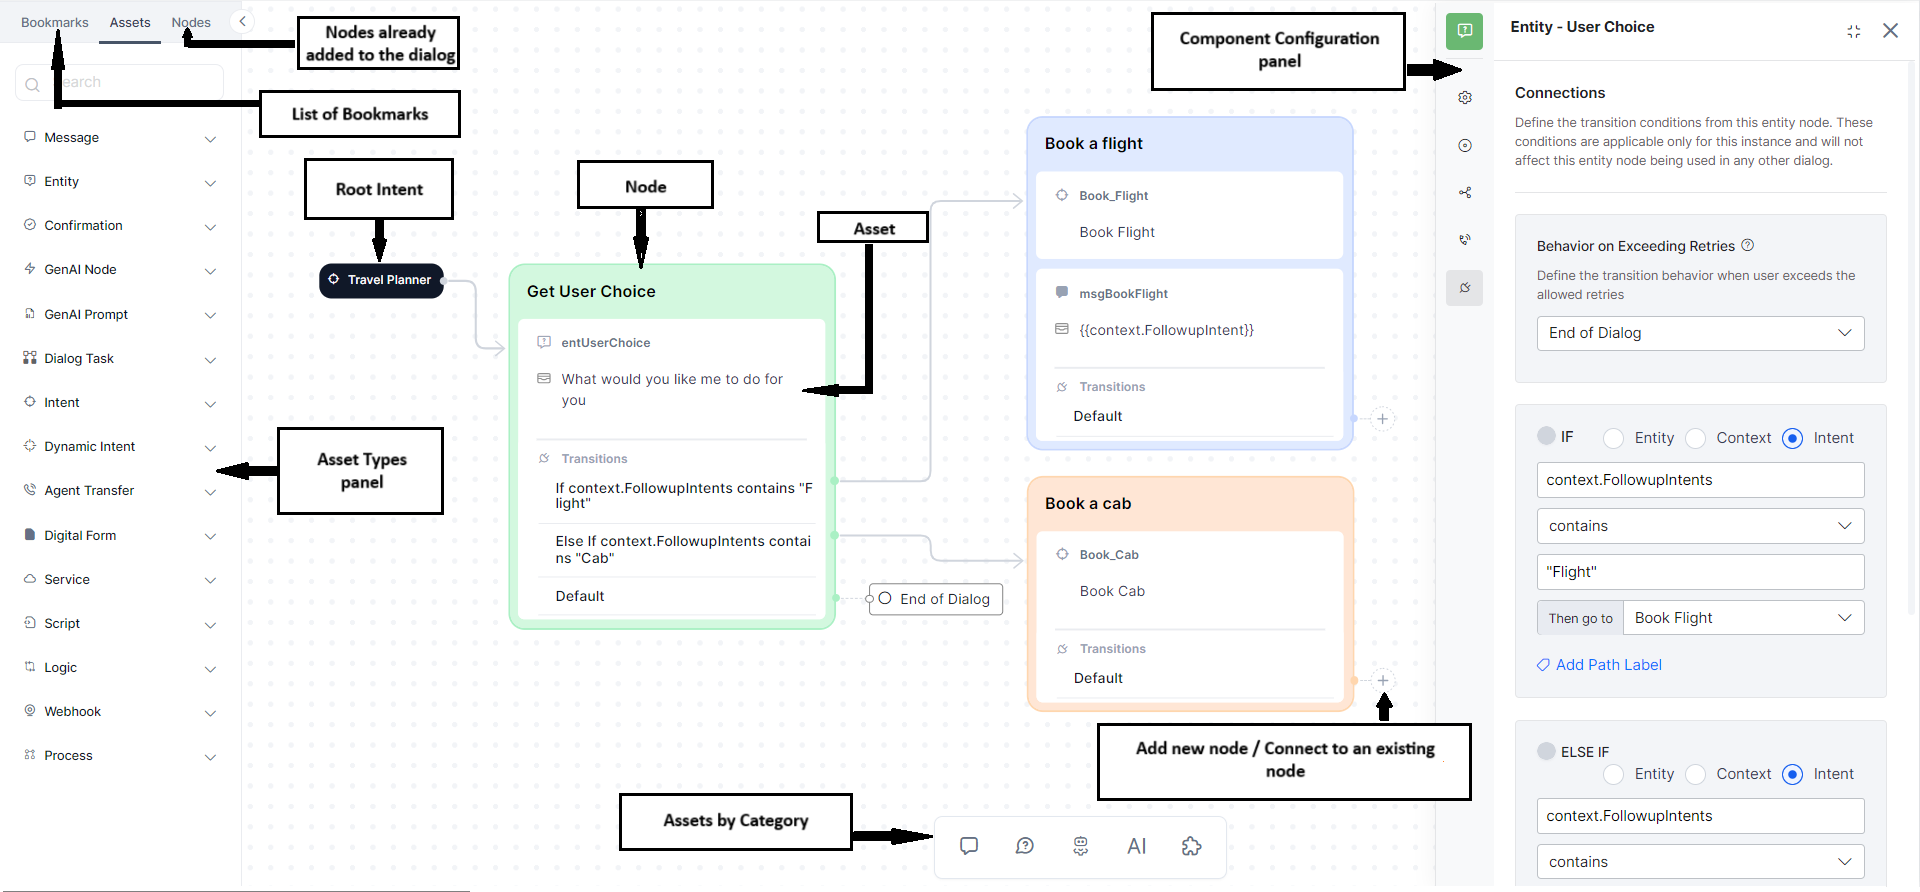
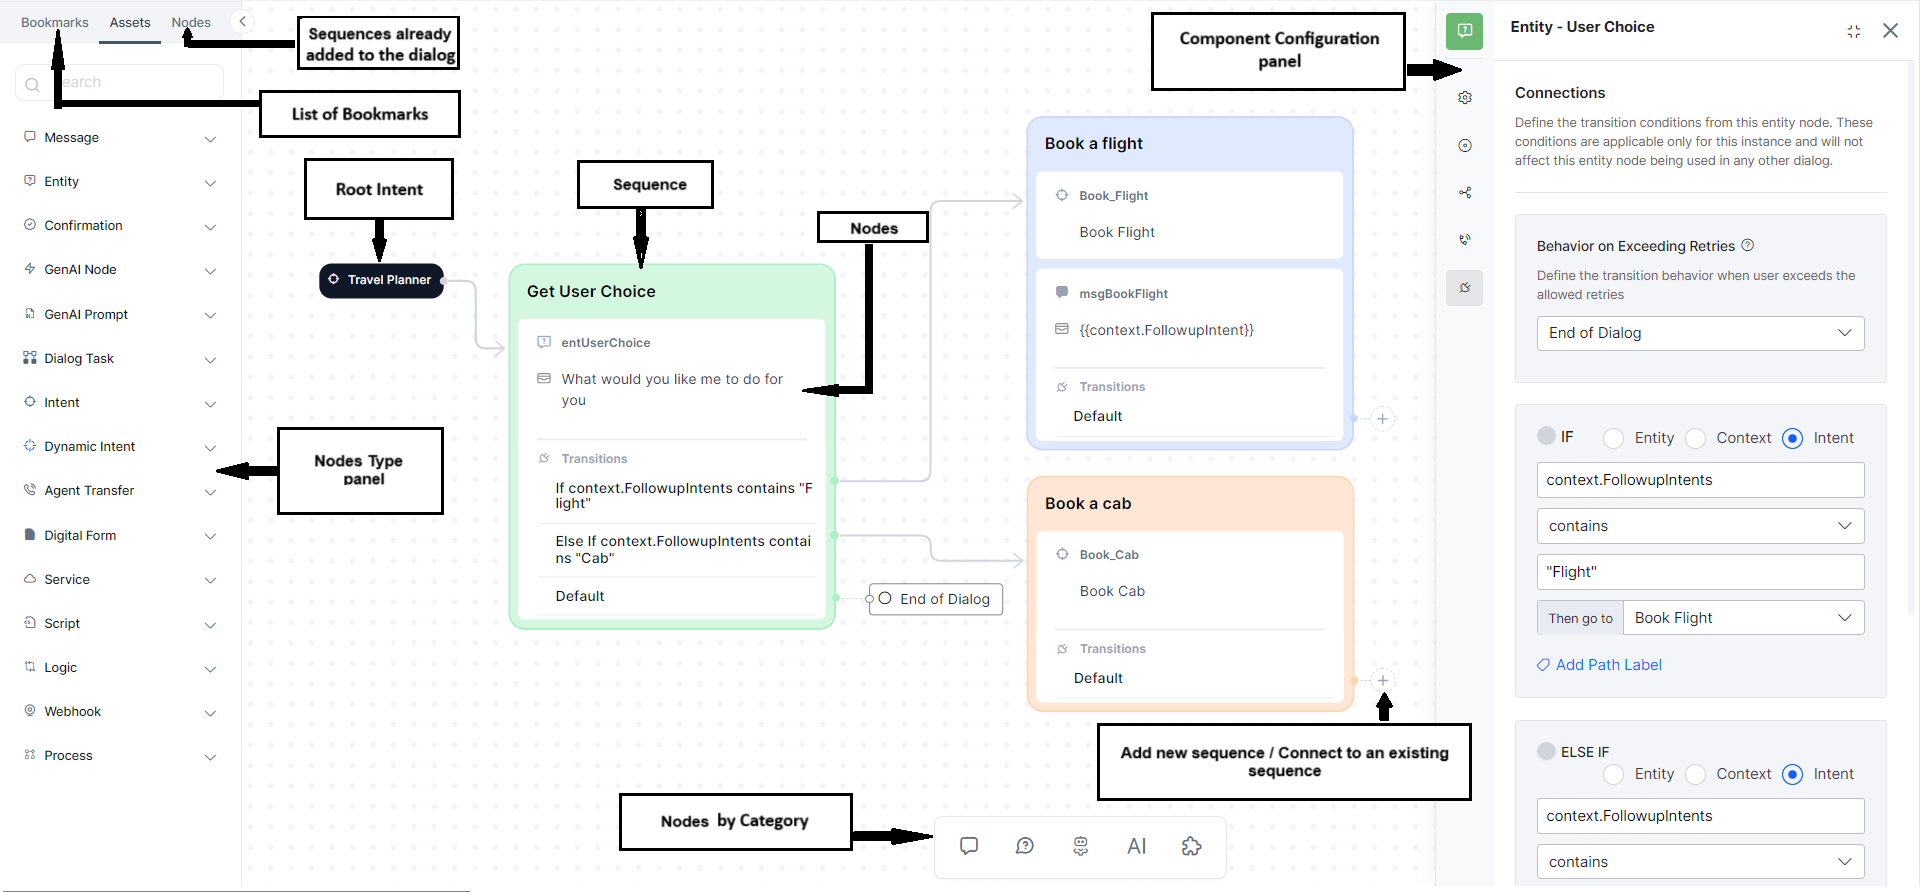
intent node

diff --git a/docs/xo/automation/use-cases/dialogs/node-types/working-with-the-user-intent-node.md b/docs/xo/automation/use-cases/dialogs/node-types/working-with-the-user-intent-node.md
@@ -16,7 +16,7 @@ User Intent Nodes help you add a root intent, a follow-up or sub-intents to your
 
 !!! Note
 
-        To start a new Dialog Task from an existing one, you can use the Dialog Task nodes.
+    To start a new Dialog Task from an existing one, you can use the Dialog Task nodes.
 
 Setting up a user intent node in a dialog task involves the following steps:
 
@@ -27,10 +27,7 @@ Setting up a user intent node in a dialog task involves the following steps:
 2. Add a user intent node in the designated place. For steps on adding nodes, [please read more here](../../using-the-dialog-builder-tool/#add-nodes){:target="_blank"}.
 3. The user intent window is displayed with the **Component Properties** tab selected by default.
 
-<p id="gdcalert1" ><span style="color: red; font-weight: bold">>>>>>  gd2md-html alert: inline image link here (to images/image1.png). Store image on your image server and adjust path/filename/extension if necessary. </span><br>(<a href="#">Back to top</a>)(<a href="#gdcalert2">Next alert</a>)<br><span style="color: red; font-weight: bold">>>>>> </span></p>
-
-
-![alt_text](images/image1.png "image_tooltip")
+<img src="../images/add-intent-node-img1.png" alt="Add intent node" title="Add intent node" style="border:1px solid gray;zoom=70%;">
 
 
 
@@ -41,7 +38,7 @@ Setting up a user intent node in a dialog task involves the following steps:
 
 !!! Note
 
-        The configurations you set up or edit in the Component Properties tab reflects in all the dialog tasks that use this node. These settings are the same for Intent and Sub-intent nodes.
+    The configurations you set up or edit in the Component Properties tab reflects in all the dialog tasks that use this node. These settings are the same for Intent and Sub-intent nodes.
 
 On the **Component Properties** tab, under the **General Settings**, you can modify:  
 
@@ -49,9 +46,7 @@ On the **Component Properties** tab, under the **General Settings**, you can mod
 2. The **Display Name**,
 3. The **Description**.
 
-<p id="gdcalert2" ><span style="color: red; font-weight: bold">>>>>>  gd2md-html alert: inline image link here (to images/image2.png). Store image on your image server and adjust path/filename/extension if necessary. </span><br>(<a href="#">Back to top</a>)(<a href="#gdcalert3">Next alert</a>)<br><span style="color: red; font-weight: bold">>>>>> </span></p>
-
-![alt_text](images/image2.png "image_tooltip")
+<img src="../images/add-intent-node-img2.png" alt="Intent node Instance properties" title="Intent node Instance properties" style="border:1px solid gray;zoom=70%;">
 
 
 ### Instance Properties
@@ -66,9 +61,7 @@ You can add tags to build custom profiles of your VA’s conversations. You can 
 
 Here is an example of a dialog task that is connected as a subintent in a more complex one.
 
-<p id="gdcalert3" ><span style="color: red; font-weight: bold">>>>>>  gd2md-html alert: inline image link here (to images/image3.png). Store image on your image server and adjust path/filename/extension if necessary. </span><br>(<a href="#">Back to top</a>)(<a href="#gdcalert4">Next alert</a>)<br><span style="color: red; font-weight: bold">>>>>> </span></p>
-
-![alt_text](images/image3.png "image_tooltip")
+<img src="../images/add-intent-node-img3-instance-properties.png" alt="Intent node instance properties" title="Intent node instance properties" style="border:1px solid gray;zoom=70%;">
 
 
 ### NLP Properties
@@ -82,9 +75,7 @@ To improve intent identification for the dialog task, add or define the followin
 3. **Bot Synonyms** or related phrases for the user intent. [Learn more](../../../../natural-language/training/fundamental-meaning/#manage-synonyms){:target="_blank"}.
 4. **Manage Context** tags as preconditions to identify the intent and define the output context to be set when this task is initiated. [Learn more](../../../../intelligence/context-management){:target="_blank"}.
 
-<p id="gdcalert4" ><span style="color: red; font-weight: bold">>>>>>  gd2md-html alert: inline image link here (to images/image4.gif). Store image on your image server and adjust path/filename/extension if necessary. </span><br>(<a href="#">Back to top</a>)(<a href="#gdcalert5">Next alert</a>)<br><span style="color: red; font-weight: bold">>>>>> </span></p>
-
-![alt_text](images/image4.gif "image_tooltip")
+<img src="../images/add-intent-node-img4-nlp-properties1.png" alt="Intent node NLP properties" title="Intent node NLP properties" style="border:1px solid gray;zoom=70%;">&nbsp;&nbsp;&nbsp;&nbsp;&nbsp;&nbsp;&nbsp;&nbsp;&nbsp;&nbsp;&nbsp;&nbsp;<img src="../images/add-intent-node-img5-nlp-properties2.png" alt="Intent node NLP properties" title="Intent node NLP properties" style="border:1px solid gray;zoom=70%;">
 
 
 ### Connections Properties
@@ -99,6 +90,4 @@ If the Intent node you are working with does not represent the primary intent wi
 
         These conditions are applicable only for this instance and will not affect this node when being used in any other dialog.
 
-<p id="gdcalert5" ><span style="color: red; font-weight: bold">>>>>>  gd2md-html alert: inline image link here (to images/image5.png). Store image on your image server and adjust path/filename/extension if necessary. </span><br>(<a href="#">Back to top</a>)(<a href="#gdcalert6">Next alert</a>)<br><span style="color: red; font-weight: bold">>>>>> </span></p>
-
-![alt_text](images/image5.png "image_tooltip")
+<img src="../images/add-intent-node-img6.png" alt="Intent node Connection properties" title="Intent node Connection properties" style="border:1px solid gray;zoom=70%;">

diff --git a/docs/xo/automation/use-cases/dialogs/using-the-dialog-builder-tool.md b/docs/xo/automation/use-cases/dialogs/using-the-dialog-builder-tool.md
@@ -149,7 +149,7 @@ You can delete a sequence by right clicking on it and selecting **Delete** from 
 
 ## Add node to dialog
 
-There are two ways to add an asset:
+There are two ways to add a node:
 
 1. Drag and drop nodes from the panel onto the dialog builder, [see below](#use-drag-and-drop).
 2. Using the options from the Dialog Builder Canvas, [see below](#use-the-dialog-canvas).
@@ -167,7 +167,7 @@ Additionally, a streamlined node panel with user-friendly categorization is prov
 
 Click the <img src="../images/using-dialog-builder-img17-nodes-connector.png"> button next to the sequence after which you want to add another node. You can either add a node directly on the canvas, in which case a new sequence gets created. You can then drag and drop the node to an existing sequence, if that is how you wish to place it.
 
-**_[video of adding asset on canvas]_**
+**_[video of adding node on canvas]_**
 
 
 ### Add If-Else Node Connections
@@ -180,7 +180,7 @@ To do this, hover over the **Transitions** section and click **Add New.** [Learn
 
 Sequence can be deleted by right clicking on it, and then clicking **Delete.**
 
-<img src="../images/using-dialog-builder-delete-asset.png" alt="Delete asset" title="Delete asset" style="border:1px solid gray; zoon:60%;">
+<img src="../images/using-dialog-builder-delete-asset.png" alt="Delete node" title="Delete node" style="border:1px solid gray; zoon:60%;">
 
 
 ## Node Properties
@@ -191,9 +191,9 @@ Clicking on a node will open its Properties panel, which includes specific featu
 * **Instance Properties** can be customized for the selected node for the current dialog.
 * **Connection Properties** can be used for configuring transition conditions. (Only available for the bottommost node in a node)
 * **NLP Properties** for intent and entity recognition.
-* **Voice Call Properties** for IVR channels (available for certain assets only after [IVR integration](../node-types/voice-call-properties/){:target="_blank"}).
+* **Voice Call Properties** for IVR channels (available for certain nodes only after [IVR integration](../node-types/voice-call-properties/){:target="_blank"}).
 
-<img src="../images/using-dialog-builder-img20-asset-properties.png" alt="Asset properties" title="Asset properties" style="border:1px solid gray; zoon:60%;">
+<img src="../images/using-dialog-builder-img20-asset-properties.png" alt="Node properties" title="Node properties" style="border:1px solid gray; zoon:60%;">
 
 
 ## Adding Comments, Bookmarks and Text
@@ -318,7 +318,7 @@ If you are using the group to set up a Subintent, you can also configure it, usi
 ## Bot Action Nodes (Needed?)
 
 
-Bot Action nodes include the following assets, that need processing by the app without user interaction:
+Bot Action nodes include the following nodes, that need processing by the app without user interaction:
 
 * [Service ](../node-types/working-with-the-service-node/){:target="_blank"}Asset
 * [Script ](../node-types/working-with-the-script-node/){:target="_blank"}Asset

diff --git a/docs/xo/automation/use-cases/dialogs/node-types/nodes-transitions.md b/docs/xo/automation/use-cases/dialogs/node-types/nodes-transitions.md
@@ -114,7 +114,7 @@ Environment Variables are global, reusable components which can be used in multi
   
     !!! Note
     
-            You must enter dynamic variables without braces. For example, Environment variables as `env.value`, Content variables as `content.value`, and Context variable as `context.entities.entityname`. For more information, see the [Adding IF-Else Conditions to Node Connections](../../node-connections/nodes-conditions/#entity){:target="_blank"} article.
+        You must enter dynamic variables without braces. For example, Environment variables as `env.value`, Content variables as `content.value`, and Context variable as `context.entities.entityname`. For more information, see the [Adding IF-Else Conditions to Node Connections](../../node-connections/nodes-conditions/#entity){:target="_blank"} article.
 
 * To define and manage the bot response that is repeated within the bot configuration as variables.
 * Authorization Token
